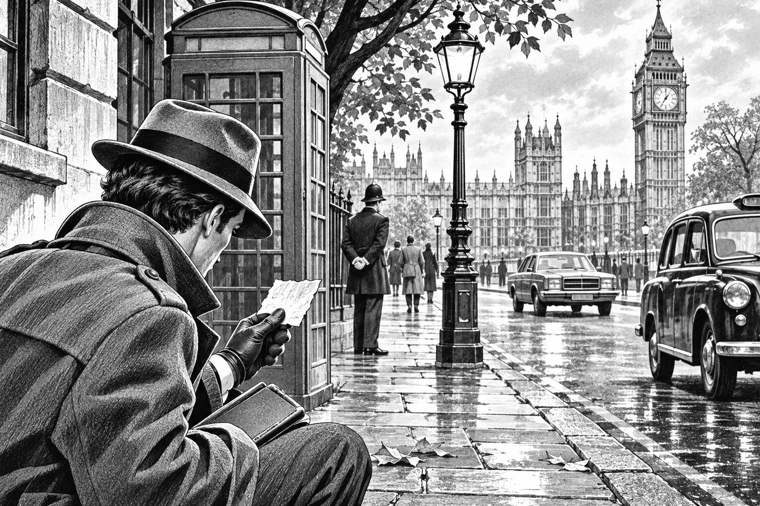
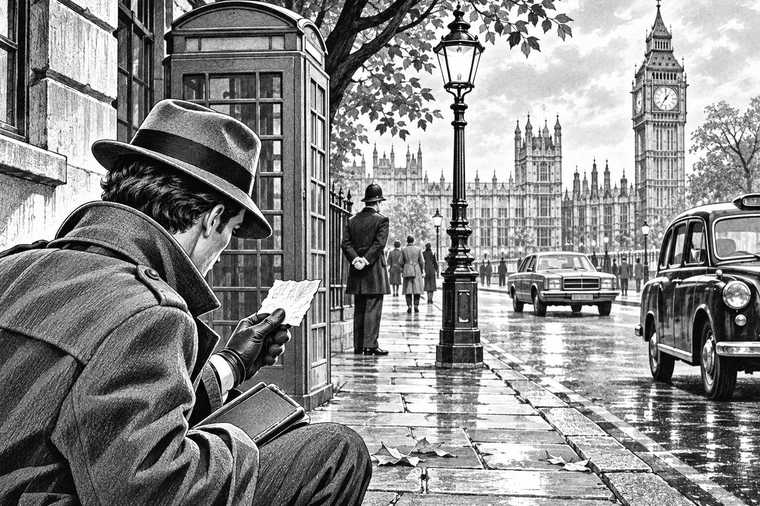
feat(library): complete Daniel Carter A1 novel imagery and reader integration
Finish five-chapter novel's app cover, bundle all seven previously approved black-and-white scene illustrations, display extra scenes in two chapters, and add asset integrity test. Preserve all earlier WorldVoice novels.

diff --git a/test/story_daniel_carter_novel_test.dart b/test/story_daniel_carter_novel_test.dart
@@ -1,27 +1,42 @@
 import 'dart:convert';
+
 import 'package:flutter/services.dart';
 import 'package:flutter_test/flutter_test.dart';
 import 'package:worldvoice/features/learn/data/story_library_repository.dart';
 
 void main() {
   TestWidgetsFlutterBinding.ensureInitialized();
-  test('Daniel Carter complete A1 book is indexed and readable offline', () async {
+
+  test('Daniel Carter A1 has five chapters, seven scenes, and a cover', () async {
     final repo = StoryLibraryRepository();
     final entries = await repo.storiesFor(language: 'en', level: 'A1');
     final novel = entries.singleWhere((e) => e.id == 'daniel_carter');
     expect(novel.format, 'novel');
     expect(novel.chapterCount, 5);
-    final data = jsonDecode(await rootBundle.loadString(novel.asset)) as Map<String,dynamic>;
-    expect(data['title'], novel.title);
-    final chapters = data['chapters'] as List;
+    final book = jsonDecode(await rootBundle.loadString(novel.asset))
+        as Map<String, dynamic>;
+    expect(book['title'], novel.title);
+    final chapters = book['chapters'] as List;
     expect(chapters.length, 5);
+    var scenes = 0;
     for (var i = 0; i < chapters.length; i++) {
       final chapter = chapters[i] as Map<String, dynamic>;
-      expect(chapter['number'], i+1);
+      expect(chapter['number'], i + 1);
       expect((chapter['paragraphs'] as List).length, greaterThanOrEqualTo(5));
+      expect((await rootBundle.load(chapter['image'] as String)).lengthInBytes,
+          greaterThan(200));
+      scenes++;
+      if (chapter['extra_image'] is String) {
+        expect((await rootBundle.load(chapter['extra_image'] as String)).lengthInBytes,
+            greaterThan(200));
+        scenes++;
+      }
     }
-    expect((data['vocabulary'] as List).length, 40);
-    expect((data['questions'] as List).length, 15);
-    expect((data['final_test'] as List).length, 20);
+    expect(scenes, 7);
+    expect((await rootBundle.load(novel.coverImage!)).lengthInBytes,
+        greaterThan(200));
+    expect((book['vocabulary'] as List).length, 40);
+    expect((book['questions'] as List).length, 15);
+    expect((book['final_test'] as List).length, 20);
   });
 }

diff --git a/lib/features/learn/presentation/story_novel_reader_screen.dart b/lib/features/learn/presentation/story_novel_reader_screen.dart
@@ -109,6 +109,12 @@ class _StoryNovelReaderScreenState extends State<StoryNovelReaderScreen> {
             const SizedBox(height: 19),
           ],
           _p(ch['paragraphs'][i] as String),
+          if (i == 9 && ch['extra_image'] is String) ...[
+            const SizedBox(height: 9),
+            Image.asset(ch['extra_image'] as String,
+              height: 180, fit: BoxFit.contain),
+            const SizedBox(height: 19),
+          ],
         ],
         const SizedBox(height: 20),
         Center(child: FilledButton.icon(
